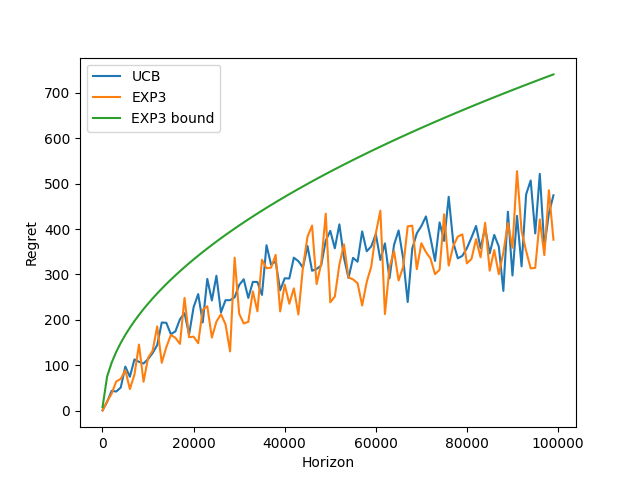
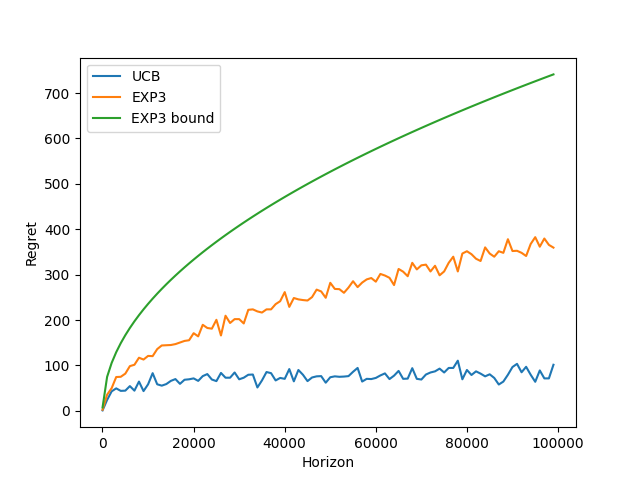
final delta

diff --git a/BA_ch_11/BA11.py b/BA_ch_11/BA11.py
@@ -46,7 +46,7 @@ class BernouliBandit(object):
 def main():
     # Set up the experiment.
     # we have a two armed bernoulli bandit with means 0.5 and 0.5 + delta
-    delta = 0.05
+    delta = 0.5
     bandit = BernouliBandit(delta)
     print("Setup complete. Running experiments...")
     # plot the regret of the UCB and EXP3 algorithms
